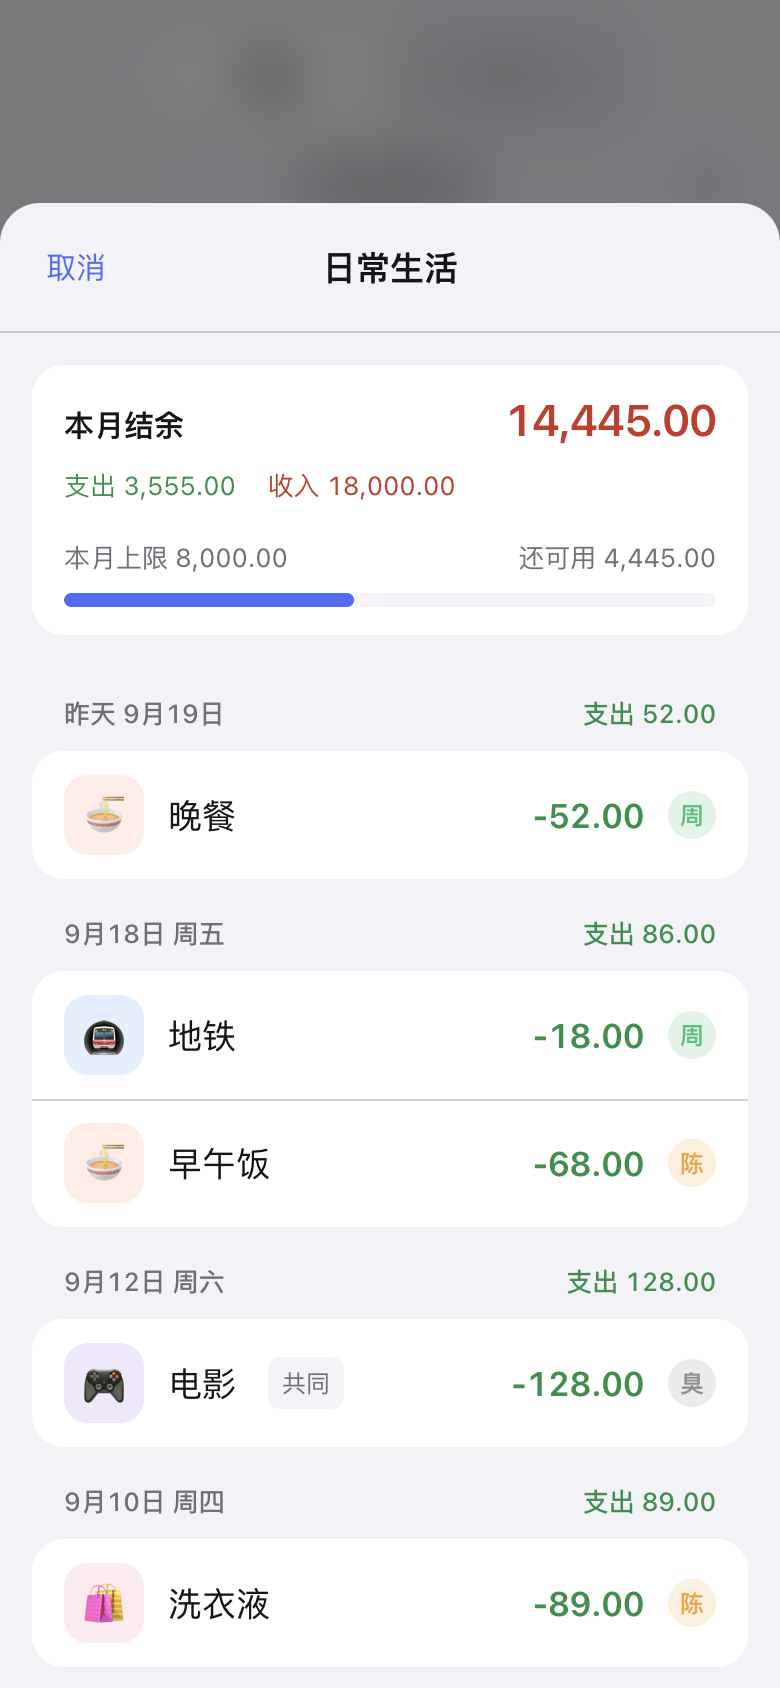
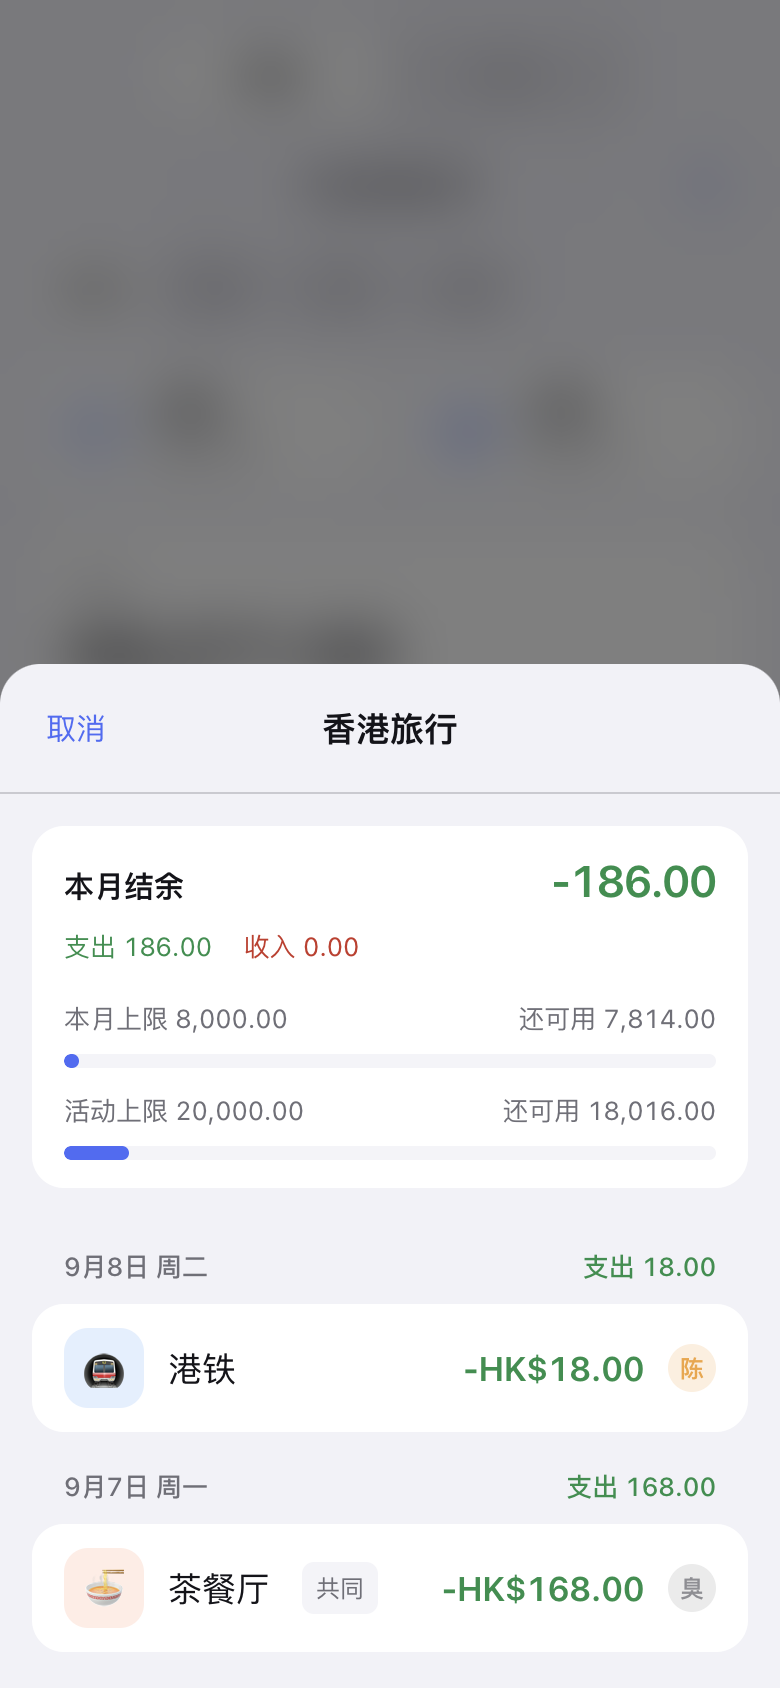
Add a HSBC Pulse card and refresh screenshots around the Hong Kong trip.

diff --git a/cmd/demo/main.go b/cmd/demo/main.go
@@ -96,6 +96,13 @@ func seed(st *store.Store) error {
 	if err != nil {
 		return err
 	}
+	pulse, err := st.CreateCard(store.Card{
+		Kind: store.CardCredit, Bank: "汇丰香港", Name: "Pulse", Last4: "6688", Network: store.NetworkVisa,
+		Funds: []store.CardFund{{Currency: "HKD", Balance: 852000}},
+	})
+	if err != nil {
+		return err
+	}
 
 	type row struct {
 		kind, date, note string
@@ -104,38 +111,46 @@ func seed(st *store.Store) error {
 		card             int64
 		user             int64
 		shared           bool
+		currency         string
 	}
 	food, transit, shop := cat["expense:餐饮"], cat["expense:交通"], cat["expense:购物"]
 	home, play, phone := cat["expense:居住"], cat["expense:娱乐"], cat["expense:通讯"]
 	wage, side := cat["income:工资"], cat["income:兼职"]
 	bills := []row{
-		{store.KindIncome, "2026-07-05", "七月工资", 1800000, wage, daily.ID, debit.ID, chen.ID, false},
-		{store.KindExpense, "2026-07-01", "房租", 320000, home, daily.ID, debit.ID, chen.ID, true},
-		{store.KindExpense, "2026-07-06", "午饭", 8600, food, daily.ID, debit.ID, chen.ID, false},
-		{store.KindExpense, "2026-07-06", "咖啡", 4200, food, daily.ID, credit.ID, zhou.ID, false},
-		{store.KindExpense, "2026-07-08", "地铁", 1800, transit, daily.ID, debit.ID, chen.ID, false},
-		{store.KindExpense, "2026-07-12", "日用品", 25600, shop, daily.ID, credit.ID, zhou.ID, false},
-		{store.KindExpense, "2026-07-15", "话费", 3900, phone, daily.ID, debit.ID, chen.ID, false},
-		{store.KindIncome, "2026-08-05", "八月工资", 1800000, wage, daily.ID, debit.ID, chen.ID, false},
-		{store.KindIncome, "2026-08-20", "周末兼职", 300000, side, daily.ID, credit.ID, zhou.ID, false},
-		{store.KindExpense, "2026-08-01", "房租", 320000, home, daily.ID, debit.ID, chen.ID, true},
-		{store.KindExpense, "2026-08-02", "机票", 89000, transit, trip.ID, credit.ID, chen.ID, true},
-		{store.KindExpense, "2026-08-03", "茶餐厅", 32000, food, trip.ID, credit.ID, chen.ID, false},
-		{store.KindExpense, "2026-08-05", "手信", 56000, shop, trip.ID, credit.ID, zhou.ID, true},
-		{store.KindExpense, "2026-08-06", "便利店", 4500, food, daily.ID, debit.ID, chen.ID, false},
-		{store.KindIncome, "2026-09-05", "九月工资", 1800000, wage, daily.ID, debit.ID, chen.ID, false},
-		{store.KindExpense, "2026-09-01", "房租", 320000, home, daily.ID, debit.ID, chen.ID, true},
-		{store.KindExpense, "2026-09-10", "洗衣液", 8900, shop, daily.ID, debit.ID, chen.ID, false},
-		{store.KindExpense, "2026-09-12", "电影", 12800, play, daily.ID, credit.ID, zhou.ID, true},
-		{store.KindExpense, "2026-09-18", "早午饭", 6800, food, daily.ID, debit.ID, chen.ID, false},
-		{store.KindExpense, "2026-09-18", "地铁", 1800, transit, daily.ID, debit.ID, zhou.ID, false},
-		{store.KindExpense, "2026-09-19", "晚餐", 5200, food, daily.ID, credit.ID, zhou.ID, false},
+		{store.KindIncome, "2026-07-05", "七月工资", 1800000, wage, daily.ID, debit.ID, chen.ID, false, ""},
+		{store.KindExpense, "2026-07-01", "房租", 320000, home, daily.ID, debit.ID, chen.ID, true, ""},
+		{store.KindExpense, "2026-07-06", "午饭", 8600, food, daily.ID, debit.ID, chen.ID, false, ""},
+		{store.KindExpense, "2026-07-06", "咖啡", 4200, food, daily.ID, credit.ID, zhou.ID, false, ""},
+		{store.KindExpense, "2026-07-08", "地铁", 1800, transit, daily.ID, debit.ID, chen.ID, false, ""},
+		{store.KindExpense, "2026-07-12", "日用品", 25600, shop, daily.ID, credit.ID, zhou.ID, false, ""},
+		{store.KindExpense, "2026-07-15", "话费", 3900, phone, daily.ID, debit.ID, chen.ID, false, ""},
+		{store.KindIncome, "2026-08-05", "八月工资", 1800000, wage, daily.ID, debit.ID, chen.ID, false, ""},
+		{store.KindIncome, "2026-08-20", "周末兼职", 300000, side, daily.ID, credit.ID, zhou.ID, false, ""},
+		{store.KindExpense, "2026-08-01", "房租", 320000, home, daily.ID, debit.ID, chen.ID, true, ""},
+		{store.KindExpense, "2026-08-02", "机票", 89000, transit, trip.ID, credit.ID, chen.ID, true, ""},
+		{store.KindExpense, "2026-08-03", "茶餐厅", 32000, food, trip.ID, credit.ID, chen.ID, false, ""},
+		{store.KindExpense, "2026-08-04", "港铁", 2800, transit, trip.ID, pulse.ID, zhou.ID, false, "HKD"},
+		{store.KindExpense, "2026-08-05", "手信", 56000, shop, trip.ID, credit.ID, zhou.ID, true, ""},
+		{store.KindExpense, "2026-08-06", "便利店", 4500, food, daily.ID, debit.ID, chen.ID, false, ""},
+		{store.KindIncome, "2026-09-05", "九月工资", 1800000, wage, daily.ID, debit.ID, chen.ID, false, ""},
+		{store.KindExpense, "2026-09-01", "房租", 320000, home, daily.ID, debit.ID, chen.ID, true, ""},
+		{store.KindExpense, "2026-09-07", "茶餐厅", 16800, food, trip.ID, pulse.ID, chen.ID, true, "HKD"},
+		{store.KindExpense, "2026-09-08", "港铁", 1800, transit, trip.ID, pulse.ID, chen.ID, false, "HKD"},
+		{store.KindExpense, "2026-09-10", "洗衣液", 8900, shop, daily.ID, debit.ID, chen.ID, false, ""},
+		{store.KindExpense, "2026-09-12", "电影", 12800, play, daily.ID, credit.ID, zhou.ID, true, ""},
+		{store.KindExpense, "2026-09-18", "早午饭", 6800, food, daily.ID, debit.ID, chen.ID, false, ""},
+		{store.KindExpense, "2026-09-18", "地铁", 1800, transit, daily.ID, debit.ID, zhou.ID, false, ""},
+		{store.KindExpense, "2026-09-19", "晚餐", 5200, food, daily.ID, credit.ID, zhou.ID, false, ""},
 	}
 	for _, item := range bills {
+		currency := item.currency
+		if currency == "" {
+			currency = "CNY"
+		}
 		if _, err := st.CreateTransaction(store.TxInput{
 			Kind: item.kind, Amount: item.amount, CategoryID: item.cat, ActivityID: item.act,
 			CardID: item.card, UserID: item.user, Date: item.date, Note: item.note,
-			Shared: item.shared, Currency: "CNY",
+			Shared: item.shared, Currency: currency,
 		}); err != nil {
 			return fmt.Errorf("%s %s: %w", item.date, item.note, err)
 		}
